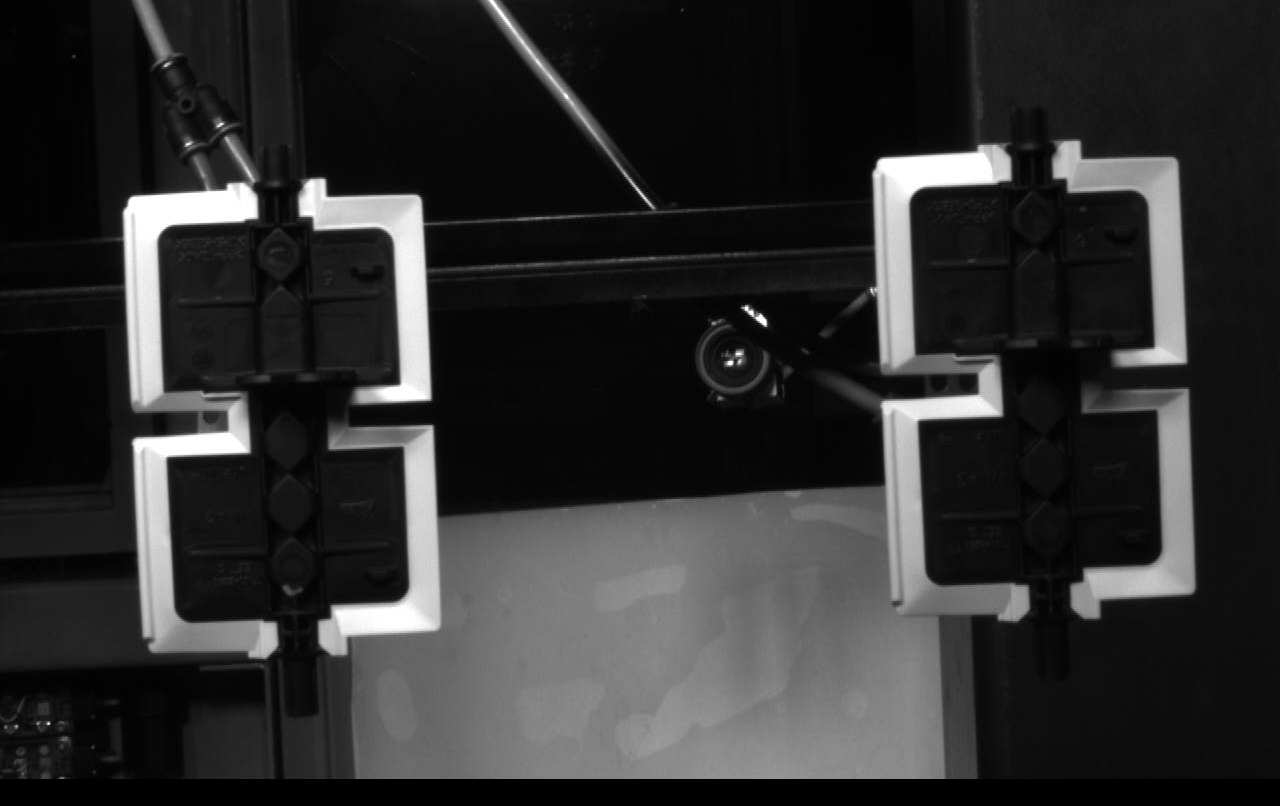
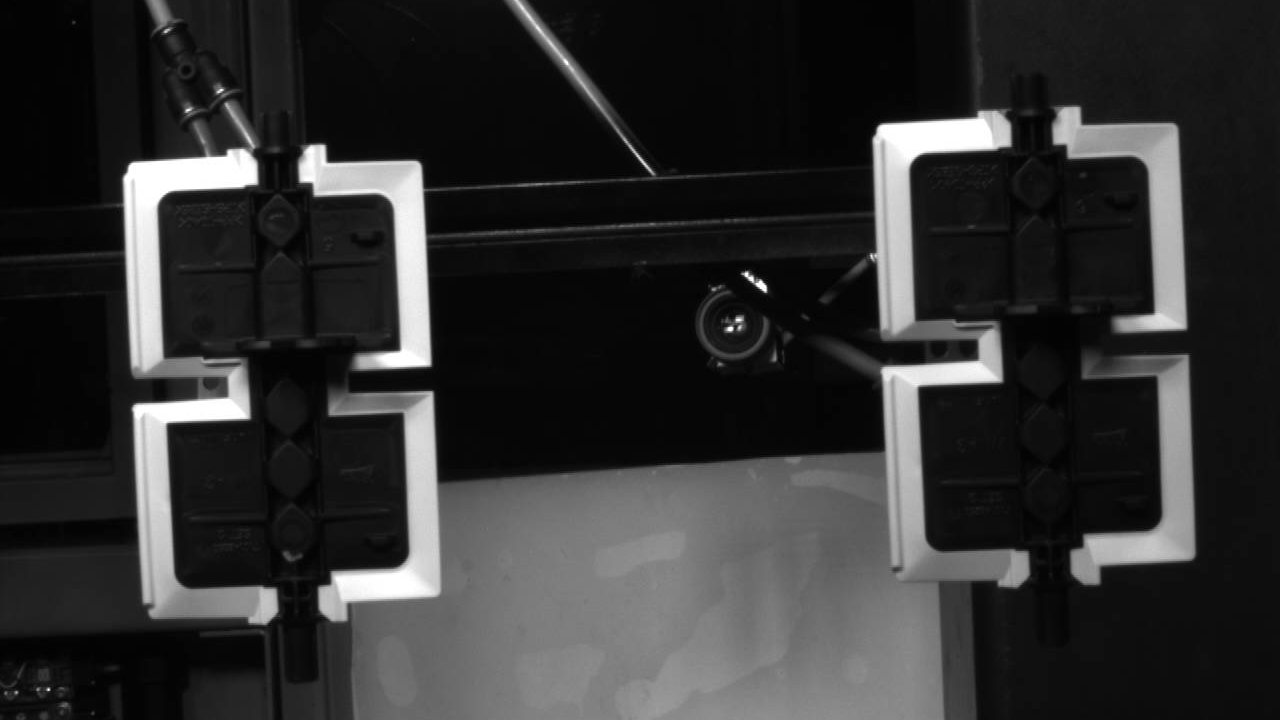
curr_m z 8na 7

diff --git a/app.py b/app.py
@@ -126,8 +126,8 @@ if menu == "Konfigurace":
             sel_m_name = st.selectbox("Master:", m_names, label_visibility="collapsed")
             curr_m = next(m for m in masters if m[2] == sel_m_name)
             
-            if os.path.exists(curr_m[8]):
-                img = Image.open(curr_m[8]).convert("RGB")
+            if os.path.exists(curr_m[7]):
+                img = Image.open(curr_m[7]).convert("RGB")
                 draw = ImageDraw.Draw(img)
                 old_rois = database.get_rois(curr_m[0])
                 valeo_green = "#97BE0D"
